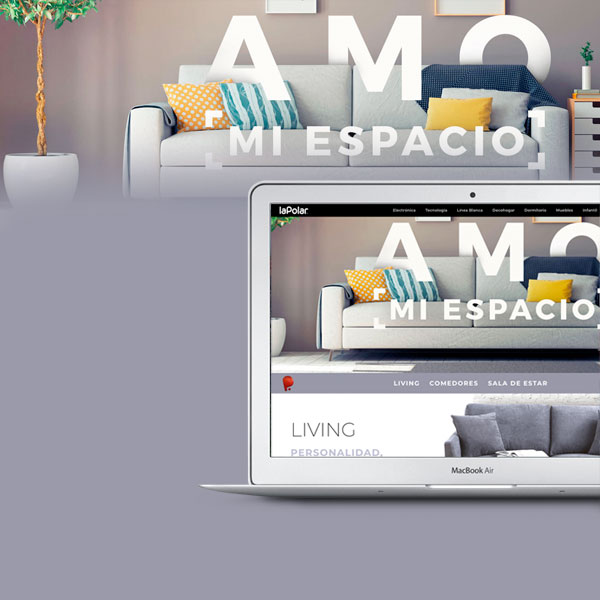
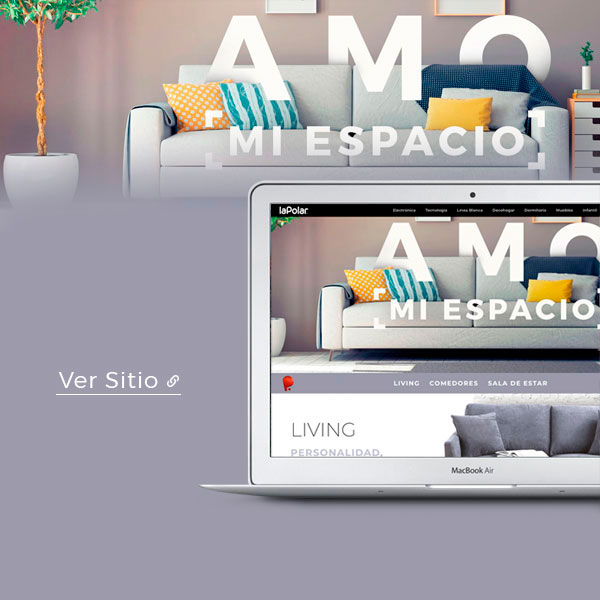
imagenes modificaddas, se agregaron los proyectos

diff --git a/sass/main.sass b/sass/main.sass
@@ -1,5 +1,5 @@
 .my_navbar2
-    width: 50px
+    max-width: 80px
     background-color: #353535
     height: 100vh
     position: fixed
@@ -7,10 +7,24 @@
     .logo
         width: 90px
         height: 90px
-        margin: 30px 0 0 10px
+        margin: 30px 0 0 30px
         border-radius: 50px
         background-color: #ffffff
         border: 7px solid transparent
+        .img-logo
+            width: 55px
+            margin: 10px auto 0 auto
+            display: flex
+            opacity: .3
+    .header_icon
+        position: absolute
+        bottom: 30px
+        left: 30px
+        .my_icon
+            display: block
+            font-size: 25px
+            margin-bottom: 20px
+        
 .row
     margin: 0
     padding: 0
@@ -29,7 +43,6 @@
             width: 100% 
             opacity: 1
             margin: 0                
-            
             background: rgba(255,255,255,0)
             background: -moz-linear-gradient(top, rgba(255,255,255,0) 0%, rgba(115,115,115,0) 55%, rgba(13,13,13,0.32) 95%, rgba(0,0,0,0.32) 100%)
             background: -webkit-gradient(left top, left bottom, color-stop(0%, rgba(255,255,255,0)), color-stop(55%, rgba(115,115,115,0)), color-stop(95%, rgba(13,13,13,0.32)), color-stop(100%, rgba(0,0,0,0.32)))
@@ -38,13 +51,12 @@
             background: -ms-linear-gradient(top, rgba(255,255,255,0) 0%, rgba(115,115,115,0) 55%, rgba(13,13,13,0.32) 95%, rgba(0,0,0,0.32) 100%)
             background: linear-gradient(to bottom, rgba(255,255,255,0) 0%, rgba(115,115,115,0) 55%, rgba(13,13,13,0.32) 95%, rgba(0,0,0,0.32) 100%)
             filter: progid:DXImageTransform.Microsoft.gradient( startColorstr='#ffffff', endColorstr='#000000', GradientType=0 )
-
             height: 100%
             bottom: 0
             h2 
-                font-size: 18px
-                letter-spacing: 1px
-                padding-left: 20px
+                font-size: 20px
+                letter-spacing: 0px
+                padding-left: 50px
                 color: white
                 position: absolute
                 bottom: 17px
@@ -53,7 +65,7 @@
                 text-transform: uppercase
                 font-weight: 100
                 letter-spacing: 1px
-                padding-left: 20px
+                padding-left: 50px
                 color: white
                 position: absolute
                 bottom: 0

diff --git a/index.html b/index.html
@@ -13,14 +13,20 @@
 
 	<!-- header -->
 	<nav class="my_navbar2">
-		<div class="logo"></div>
+		<div class="logo">
+			<img class="responsive-img img-logo" src="img/logo_mb.png" alt="Logo | MB">
+		</div>
+		<div class="header_icon">
+			<a href="https://www.linkedin.com/in/marco-barraza/"><i class="fab fa-linkedin my_icon waves-effect waves-light"></i></a>
+			<a href="https://www.behance.net/markobarraza"><i class="fab fa-behance-square my_icon"></i></a>
+		</div>
 	</nav>
 
 	<!-- trabajos -->
 	<main>
 		<div class="my-container">
 			<div class="row">
-				<!-- Work 1 -->
+				<!-- Work 1 "Especial Muebles" -->
 				<div class="col s12 m6 container_works">
 					<a class="waves-effect waves-light work1 modal-trigger" href="#modal1">
 						<div class="box box_work_left">
@@ -33,14 +39,14 @@
 				<!-- Modal Structure -->
 				<div id="modal1" class="modal">
 					<div class="modal-content">
-						<a href="#">
+						<a href="https://www.lapolar.cl/especial/casajoven/" target="blank_">
 							<img class="responsive-img" src="img/work1_modal.jpg" alt="">
 						</a>
 					</div>
 				</div>
 
 
-				<!-- Work 2 -->
+				<!-- Work 2 "Especial Smart TV" -->
 				<div class="col s12 m6 container_works">
 					<a class="waves-effect waves-light work2 modal-trigger" href="#modal2">
 						<div class="box">
@@ -53,7 +59,7 @@
 				<!-- Modal Structure -->
 				<div id="modal2" class="modal">
 					<div class="modal-content">
-						<a href="#">
+						<a href="https://www.lapolar.cl/especial/led/" target="blank_">
 							<img class="responsive-img" src="img/work2_modal.jpg" alt="">
 						</a>
 					</div>
@@ -79,7 +85,7 @@
 					</div>
 				</div>
 
-			<!-- Work 4  -->
+			<!-- Work 4 "asesorias pimentel"  -->
 			<div class="col s12 m6 container_works">
 				<a class="waves-effect waves-light work4 modal-trigger" href="#modal4">
 						<div class="box">
@@ -92,7 +98,7 @@
 			<!-- Modal Structure -->
 				<div id="modal4" class="modal">
 					<div class="modal-content">
-						<a href="#">
+						<a href="http://www.asesoriaspimentel.cl/" target="blank_">
 							<img class="responsive-img" src="img/work4_modal.jpg" alt="">
 						</a>
 					</div>

diff --git a/css/main.css b/css/main.css
@@ -1,5 +1,5 @@
 .my_navbar2 {
-  width: 50px;
+  max-width: 80px;
   background-color: #353535;
   height: 100vh;
   position: fixed;
@@ -8,10 +8,26 @@
 .my_navbar2 .logo {
   width: 90px;
   height: 90px;
-  margin: 30px 0 0 10px;
+  margin: 30px 0 0 30px;
   border-radius: 50px;
   background-color: #ffffff;
   border: 7px solid transparent;
+}
+.my_navbar2 .logo .img-logo {
+  width: 55px;
+  margin: 10px auto 0 auto;
+  display: flex;
+  opacity: 0.3;
+}
+.my_navbar2 .header_icon {
+  position: absolute;
+  bottom: 30px;
+  left: 30px;
+}
+.my_navbar2 .header_icon .my_icon {
+  display: block;
+  font-size: 25px;
+  margin-bottom: 20px;
 }
 
 .row {
@@ -49,9 +65,9 @@
   bottom: 0;
 }
 .my-container .container_works .box h2 {
-  font-size: 18px;
-  letter-spacing: 1px;
-  padding-left: 20px;
+  font-size: 20px;
+  letter-spacing: 0px;
+  padding-left: 50px;
   color: white;
   position: absolute;
   bottom: 17px;
@@ -61,7 +77,7 @@
   text-transform: uppercase;
   font-weight: 100;
   letter-spacing: 1px;
-  padding-left: 20px;
+  padding-left: 50px;
   color: white;
   position: absolute;
   bottom: 0;
